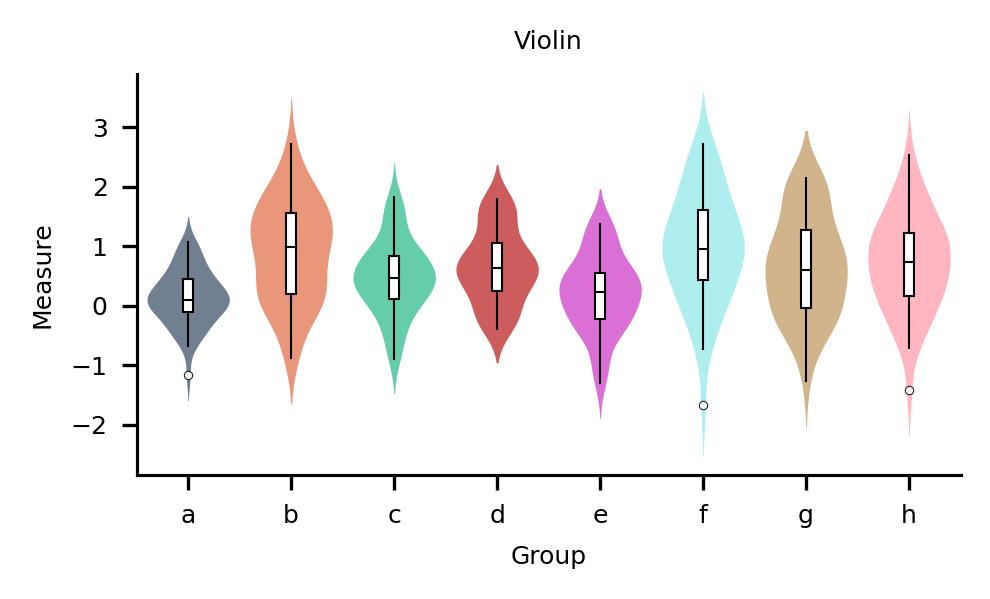
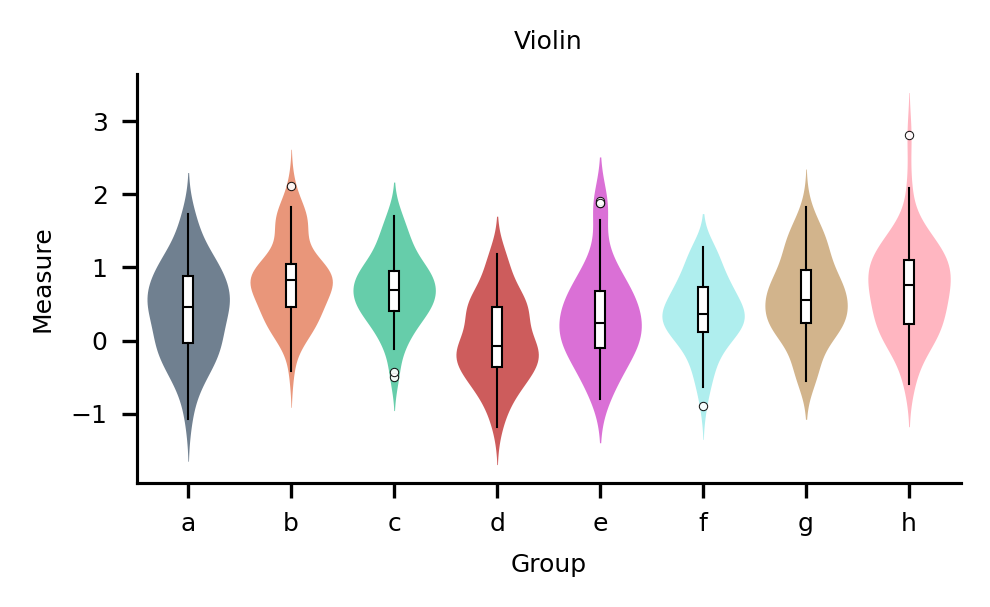
fixed some color mapping in newer seaborn versions

diff --git a/myplotlib/plots/violin.py b/myplotlib/plots/violin.py
@@ -6,7 +6,7 @@ from seaborn import violinplot
 
 
 def violin(
-    data, value_name="value", violin_width=0.8, box_width=0.1, palette=None, ax=None
+    data, value_name="value", violin_width=0.8, box_width=0.1, color=None, ax=None
 ):
     """Make a custom violinplot, with nice inner boxplot.
 
@@ -28,18 +28,24 @@ def violin(
         data.columns.name = "variable"
     data_long = pd.melt(data, value_name=value_name)
 
+    if color is None:
+        hue = data.columns.name
+    else:
+        hue = None
+
     # Violinplot
     violinplot(
         x=data.columns.name,
         y=value_name,
         data=data_long,
-        palette=palette,
+        hue=hue,
         linewidth=0,
         inner=None,
-        scale="width",
+        density_norm="width",
         width=violin_width,
         saturation=1,
         ax=ax,
+        color=color,
     )
 
     # Boxplot
